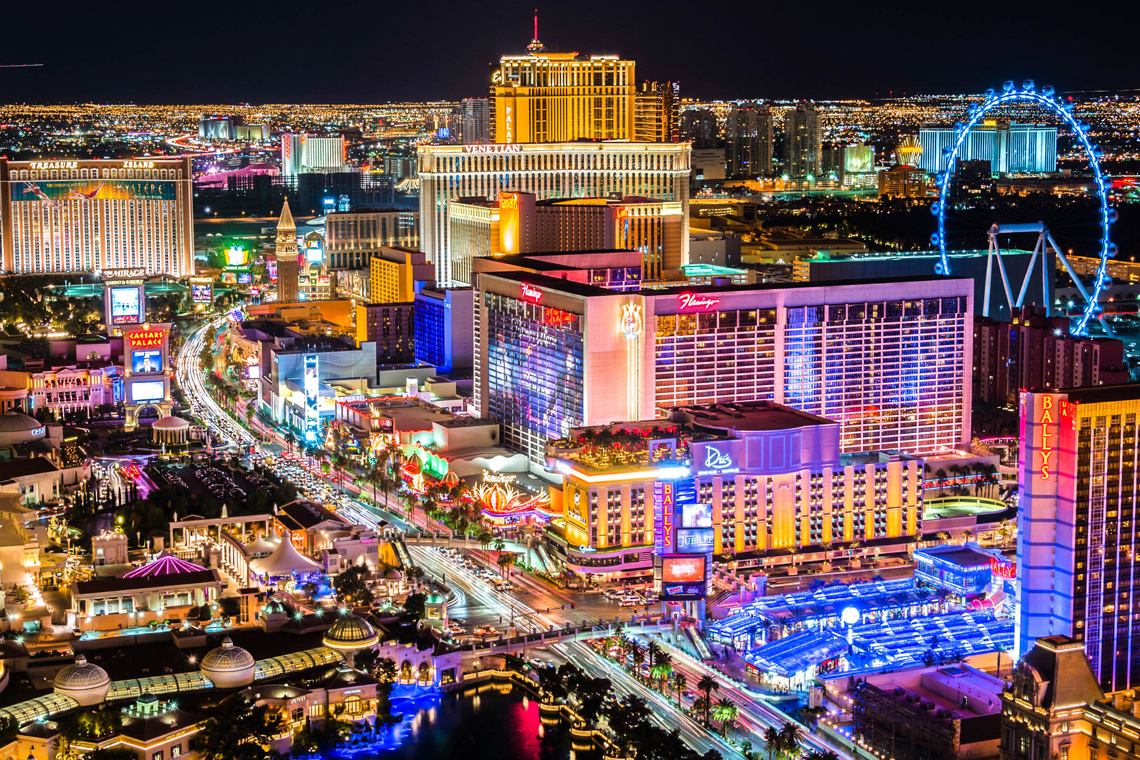
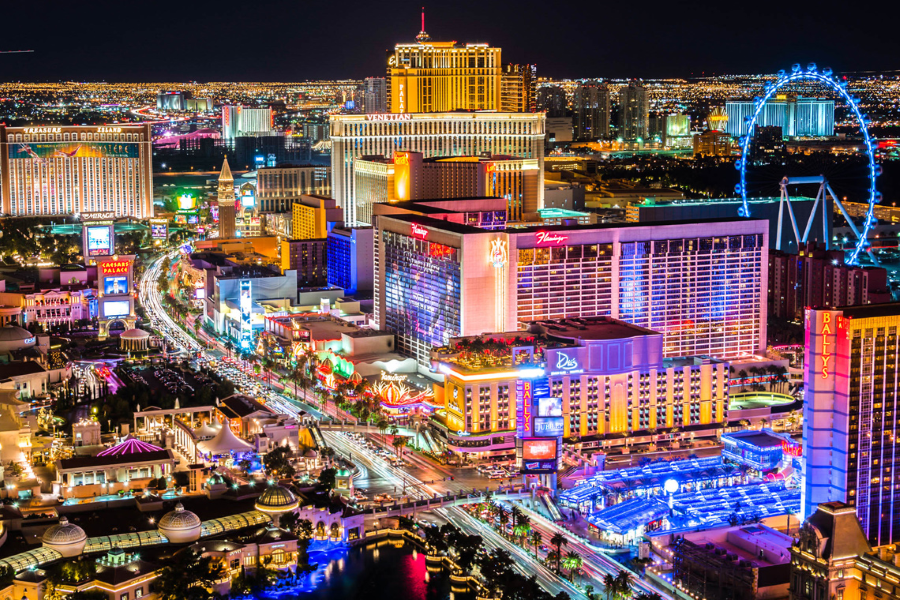
Adds second slide and images

diff --git a/us-cities/index.html b/us-cities/index.html
@@ -57,28 +57,24 @@
           <img src="../assets/asheville.png" class="rounded-3 d-block w-100" alt="Asheville, NC">
           <div class="carousel-caption d-none d-md-block">
             <h5>Asheville, NC</h5>
-            <!-- <p>Some representative placeholder content for the first slide.</p> -->
           </div>          
         </div>
         <div class="col .img-fluid carousel-item">
-          <img src="../assets/miami.png" class="rounded-3 d-block w-100" alt="Mcneil Point Oregon">
+          <img src="../assets/miami.png" class="rounded-3 d-block w-100" alt="Miami, FL">
           <div class="carousel-caption d-none d-md-block">
-            <h5>Miami, Fl</h5>
-            <!-- <p>Some representative placeholder content for the first slide.</p> -->
+            <h5>Miami, FL</h5>
           </div>         
         </div>
         <div class="col .img-fluid carousel-item">
           <img src="../assets/denver.png" class="rounded-3 d-block w-100" alt="Denver, CO">
           <div class="carousel-caption d-none d-md-block">
             <h5>Denver, CO</h5>
-            <!-- <p>Some representative placeholder content for the first slide.</p> -->
           </div>         
         </div>
         <div class="col .img-fluid carousel-item">
           <img src="../assets/seattle.png" class="rounded-3 d-block w-100" alt="Seattle, WA">
           <div class="carousel-caption d-none d-md-block">
             <h5>Seattle, WA</h5>
-            <!-- <p>Some representative placeholder content for the first slide.</p> -->
           </div>         
         </div>
       </div>
@@ -98,30 +94,49 @@
       </div>  
     </div>
     
-    <div class="container text-center pb-4">
-      <div class="row row-cols-2 gy-5">
-        <div class="col .img-fluid">
-          <img src="../assets/glacierpark_utah.png" class="rounded-3" alt="Glacierpark Utah" title="Glacierpark Utah"
-          onMouseOver="MouseRolloverFive(this)" 
-          onMouseOut="MouseOutFive(this)" />
-        </div>
-        <div class="col .img-fluid">
-          <img src="../assets/yellowstone_wyoming.png" class="rounded-3" alt="Yellowstone Wyoming" title="Yellowstone Wyoming"
-          onMouseOver="MouseRolloverSix(this)" 
-          onMouseOut="MouseOutSix(this)" />
-        </div>
-        <div class="col .img-fluid">
-          <img src="../assets/denali_alaska.png" class="rounded-3" alt="Denali Alaska" title="Denali Alaska"
-          onMouseOver="MouseRolloverSeven(this)" 
-          onMouseOut="MouseOutSeven(this)" />
-        </div>
-        <div class="col .img-fluid">
-          <img src="../assets/kalalau_hawaii.png" class="rounded-3" alt="Kalalau Hawaii" title="Kalalau Hawaii"
-          onMouseOver="MouseRolloverEight(this)" 
-          onMouseOut="MouseOutEight(this)" />
-        </div>  
+    <div class="container col-6 text-center pb-4 carousel slide carousel-fade" data-bs-ride="carousel">
+      <div class="carousel-indicators">
+        <button type="button" data-bs-target="#usCitiesCaptions" data-bs-slide-to="0" class="active" aria-current="true" aria-label="Slide 1"></button>
+        <button type="button" data-bs-target="#usCitiesCaptions" data-bs-slide-to="1" aria-label="Slide 2"></button>
+        <button type="button" data-bs-target="#usCitiesCaptions" data-bs-slide-to="2" aria-label="Slide 3"></button>
+        <button type="button" data-bs-target="#usCitiesCaptions" data-bs-slide-to="3" aria-label="Slide 4"></button>
       </div>
-    </div>  
+      <div class="carousel-inner">
+        <div class="col .img-fluid carousel-item active">
+          <img src="../assets/las_vegas.png" class="rounded-3 d-block w-100" alt="Las Vegas, NV">
+          <div class="carousel-caption d-none d-md-block">
+            <h5>Las Vegas, NV</h5>
+          </div>          
+        </div>
+        <div class="col .img-fluid carousel-item">
+          <img src="../assets/san-diego.png" class="rounded-3 d-block w-100" alt="San Diego, CA">
+          <div class="carousel-caption d-none d-md-block">
+            <h5>San Diego, CA</h5>
+          </div>         
+        </div>
+        <div class="col .img-fluid carousel-item">
+          <img src="../assets/los_angeles.png" class="rounded-3 d-block w-100" alt="Los Angeles, CA">
+          <div class="carousel-caption d-none d-md-block">
+            <h5>Los Angeles, CA</h5>
+          </div>         
+        </div>
+        <div class="col .img-fluid carousel-item">
+          <img src="../assets/honolulu_oahu.png" class="rounded-3 d-block w-100" alt="honolulu Oahu, HI">
+          <div class="carousel-caption d-none d-md-block">
+            <h5>honolulu Oahu, HI</h5>
+          </div>         
+        </div>
+      </div>
+      <button class="carousel-control-prev" type="button" data-bs-target="#usCitiesCaptions" data-bs-slide="prev">
+        <span class="carousel-control-prev-icon" aria-hidden="true"></span>
+        <span class="visually-hidden">Previous</span>
+      </button>
+      <button class="carousel-control-next" type="button" data-bs-target="#usCitiesCaptions" data-bs-slide="next">
+        <span class="carousel-control-next-icon" aria-hidden="true"></span>
+        <span class="visually-hidden">Next</span>
+      </button>
+    </div>
+  
     <script src="https://cdn.jsdelivr.net/npm/bootstrap@5.0.2/dist/js/bootstrap.bundle.min.js" integrity="sha384-MrcW6ZMFYlzcLA8Nl+NtUVF0sA7MsXsP1UyJoMp4YLEuNSfAP+JcXn/tWtIaxVXM" crossorigin="anonymous"></script>
   </body>
 </html>
